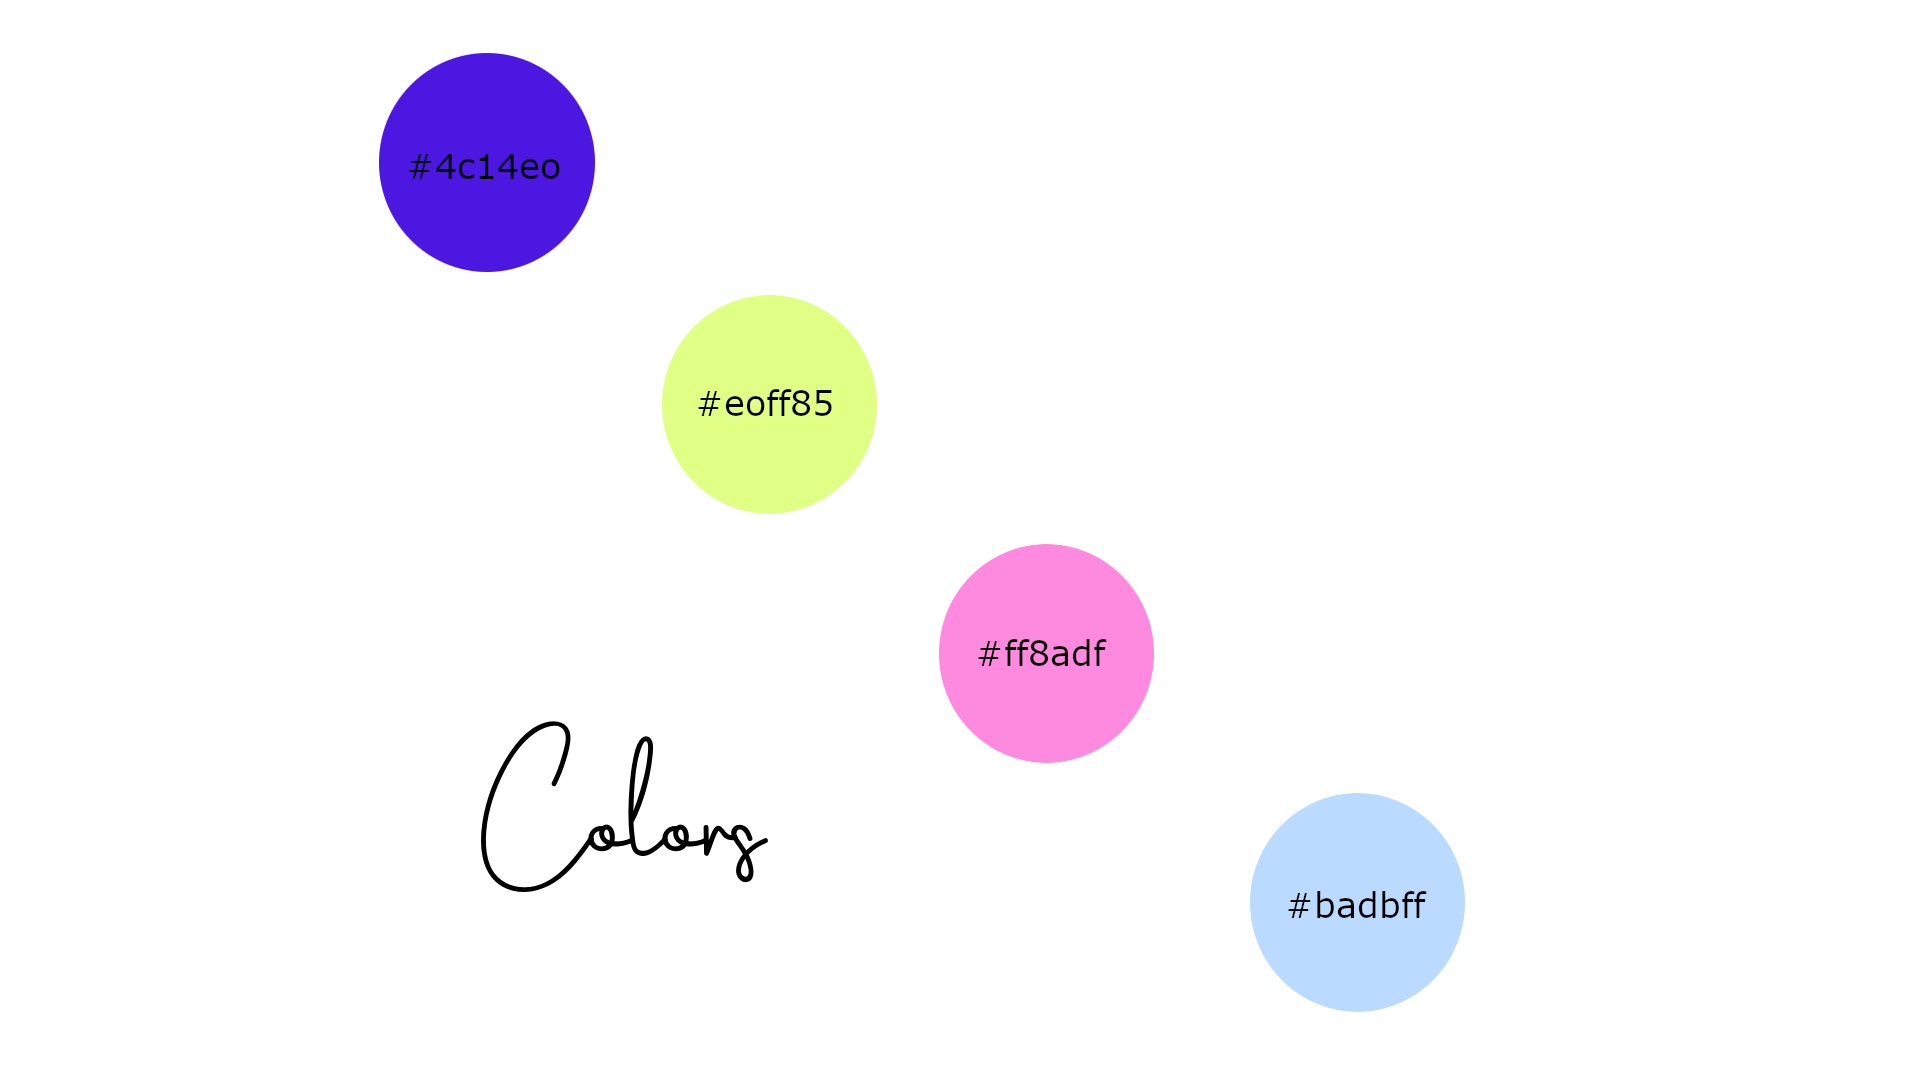
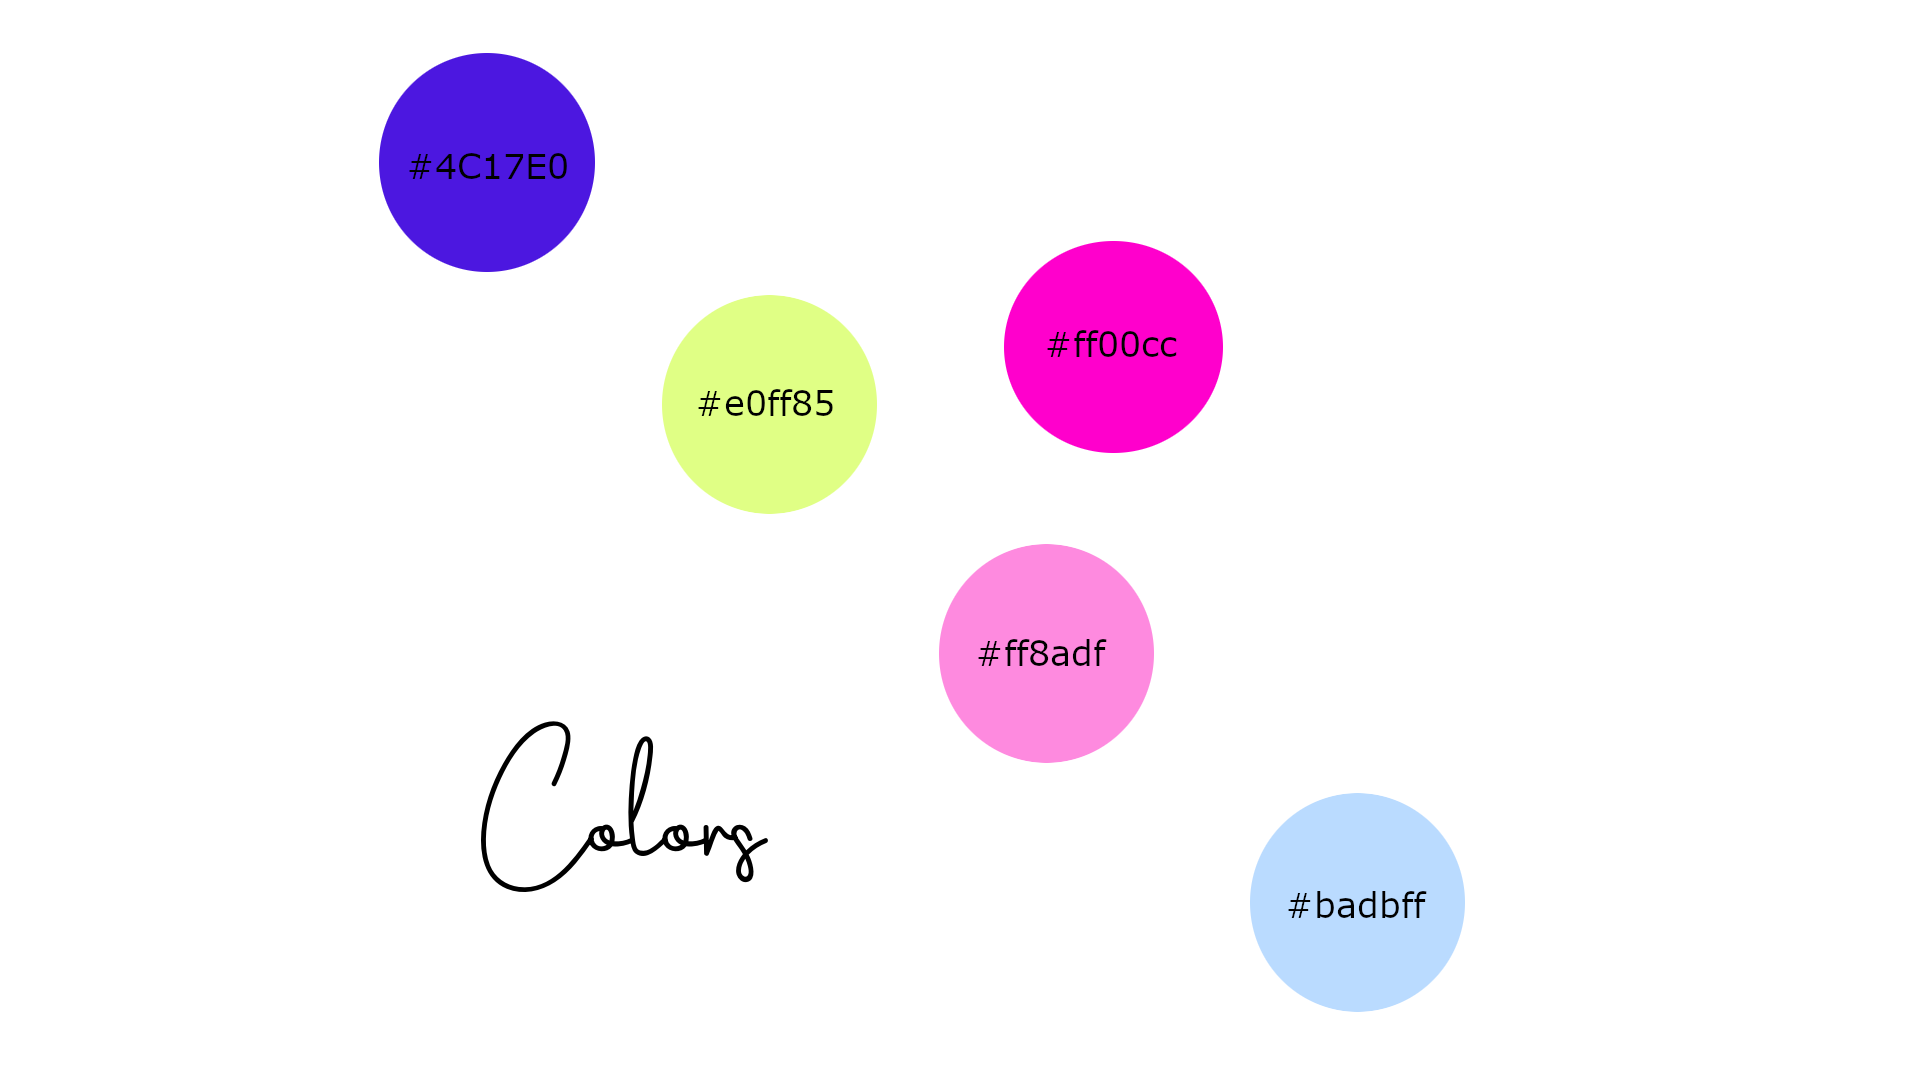
color changes

Changed region(s): [[0.5, 0.2139, 0.6562, 0.4278], [0.25, 0.1222, 0.3125, 0.1833], [0.375, 0.3667, 0.4375, 0.3972]]

diff --git a/css/style.min.css b/css/style.min.css
@@ -2,6 +2,18 @@
  * Roxy: Bootstrap template by GettTemplates.com
  * https://gettemplates.co/roxy
  */
+
+
+/* <!---=======================================================================-->
+   <!---=========================Colors==========Edits By Piper Williams=======-->
+          #4c17e0; #Deep Purple
+          #e0ff85; #Light Lime Green
+          #ff8adf; #Light Pink
+          #ff00cc; #Hot Pink
+          #badbff; #Light Purple
+<!---===========================================================================--> */
+
+
 html, body {
   width: 100%;
   overflow-x: hidden; }
@@ -26,7 +38,7 @@ h6,
   margin-top: 0; }
 
 a {
-  color: #ff00cc;
+  color: #4c17e0;
   transition: all .3s ease-in-out; }
 
 a:focus,
@@ -36,7 +48,8 @@ button:focus {
 .btn:hover,
 a:hover {
   text-decoration: none;
-  color: #333399; }
+  color: #badbff;
+}
 
 img {
   max-width: 100%; }
@@ -147,11 +160,14 @@ section {
     bottom: 0;
     left: 0;
     right: 0;
-    background: #ff00cc;
+    /* background: #ff00cc; */
+    background: #ff8adf;
     /* fallback for old browsers */
-    background: -webkit-linear-gradient(to right, #333399, #ff00cc);
+    /* background: -webkit-linear-gradient(to right, #333399, #ff00cc); */
+    background: -webkit-linear-gradient(to right, #e0ff85, #ff00cc);
     /* Chrome 10-25, Safari 5.1-6 */
-    background: linear-gradient(to right, #333399, #ff00cc);
+    /* background: linear-gradient(to right, #333399, #ff00cc); */
+    background: linear-gradient(to right, #e0ff85, #ff00cc);
     /* W3C, IE 10+/ Edge, Firefox 16+, Chrome 26+, Opera 12+, Safari 7+ */ }
   .overlay.bg-white {
     color: #000; }
@@ -175,12 +191,16 @@ section {
 
 .btn-primary {
   display: inline-block;
+  /* background-color: #ff00cc;
+  border-color: #ff00cc; */
   background-color: #ff00cc;
-  border-color: #ff00cc;
+  border-color: #e0ff85;
   color: #fff; }
   .btn-primary:hover {
-    background-color: #333399;
-    border-color: #333399;
+    /* background-color: #333399;
+    border-color: #333399; */
+    background-color: #4c17e0;
+  border-color: #badbff;
     color: #fff; }
 
 .btn-outline-primary {
@@ -209,21 +229,28 @@ section {
 .rectangle-1 {
   width: 2000px;
   height: 400px;
-  background: #8E2DE2;
-  background: -webkit-linear-gradient(to right, #4A00E0, #8E2DE2);
-  background: linear-gradient(to right, #4A00E0, #8E2DE2);
+  /* background: #8E2DE2; */
+  background: #e0ff85;
+  /* background: -webkit-linear-gradient(to right, #4A00E0, #8E2DE2); */
+  /* background: linear-gradient(to right, #4A00E0, #8E2DE2); */
+  background: -webkit-linear-gradient(to right, #4c17e0, #badbff);
+  background: linear-gradient(to right, #4c17e0, #badbff);
   transform-origin: 50% 150% 0;
   position: absolute;
   left: 0;
   z-index: 0;
-  transform: scale(1) rotate(-10deg); }
+  transform: scale(1) rotate(-10deg); 
+  
+}
 
 .rectangle-2 {
   width: 2000px;
   height: 400px;
   background: #8E2DE2;
-  background: -webkit-linear-gradient(to right, #4A00E0, #8E2DE2);
-  background: linear-gradient(to right, #4A00E0, #8E2DE2);
+  /* background: -webkit-linear-gradient(to right, #4A00E0, #8E2DE2);
+  background: linear-gradient(to right, #4A00E0, #8E2DE2); */
+  background: -webkit-linear-gradient(to right, #4c17e0, #e0ff85);
+  background: linear-gradient(to right, #ff00cc, #e0ff85);
   transform-origin: 65% 100% 0;
   position: absolute;
   right: 0;
@@ -444,7 +471,8 @@ section {
     height: 100%;
     outline: none;
     border-radius: 50%;
-    background-color: rgba(255, 0, 204, 0.3);
+    /* background-color: rgba(255, 0, 204, 0.3); */
+    background-color: #ff00cc;
     text-indent: -999em;
     cursor: pointer;
     position: absolute;

diff --git a/index.html b/index.html
@@ -158,7 +158,7 @@
   <div class="circle-2"></div>
   <div class="circle-3"></div>
   <div class="triangle triangle-1">
-  	<img src="img/obj_triangle.png" alt="">
+  	<img src="img/star.png" alt="">
   </div>
   <div class="triangle triangle-2">
   	<img src="img/obj_triangle.png" alt="">
